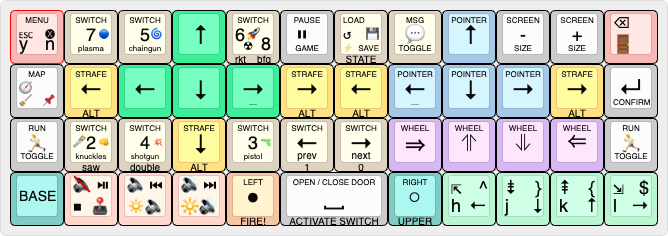
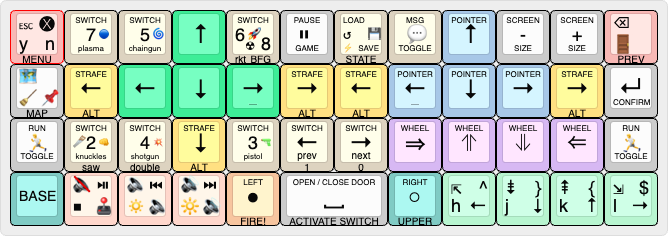
More documentation polishing…

diff --git a/README.md b/README.md
@@ -72,21 +72,21 @@ The MK-47 is usable out of the box (aside from its stock keymap).
   * **Shape:** OEM-like profile (❓ maybe similar to Cherry profile)
   * **Labels:** QWERTY primary labels w/ smaller secondary labels
 * 3× shine-through black keycaps
-  * **`Esc`:** black, 1u (top row/`ROW0`)
-  * **`Enter`:** black, 1u (home row/`ROW1`)
-  * **`Space`:** black, 2u, a.k.a. the “spacebar” (bottom row/`ROW3`)
+  * **`Esc`:** black, 1u (🔼 top row/`ROW0`)
+  * **`Enter`:** black, 1u (🏠 home row/`ROW1`)
+  * **`Space`:** black, 2u, a.k.a. the “spacebar” (🔽 bottom row/`ROW3`)
 * 1× black plastic case w/ **width×depth:** 235×83mm (9.25×3.27in)
   * **Angle:** 3–5° positive tilt
   * **Mount type:** tray/top-mounted PCB (6× small Philips screws, accessible after removing the keycaps)
   * **No stock foam:** standoffs leave room inside for adding sound-dampening material
 * 1× Planck MIT-style PCB
   * **Switch sockets:** MX hotswap (📌 3/5-pin compatible)
-  * **RGB LEDs:** North-facing
-  * **MCU:**  Westberry Tech. [`WB32FQ95xx`](https://www.westberrytech.com/uploads/file/WB32FQ95xx/EN_RM2905025_WB32FQ95xx_V01.pdf), Arm® 32-bit Cortex-M3
+  * **RGB LEDs:** 47× (🧭 north-facing)
+  * **MCU:**  Westberry Tech. [`WB32FQ95xx`](https://www.westberrytech.com/uploads/file/WB32FQ95xx/EN_RM2905025_WB32FQ95xx_V01.pdf) (🔲 Arm® 32-bit Cortex-M3)
     * **Chip ID:** `0x3A50E980`
-  * **Flash size:** 256 KB (🌌 plenty of space to work with)
-  * **SRAM size:** 36 KB
-  * **Port(s):** USB-C (USB 2.0)[^usb-magnetic-adapters]
+    * **Flash size:** 256 KB (🌌 plenty of space to work with)
+    * **SRAM size:** 36 KB
+  * **Port(s):** USB-C (USB 2.0)[^usb-magnetic-adapters], centered on the rear edge
 * Accessories & extras
   * 1× funky black nylon braided 90° USB-C-to-USB-A cable
   * 1× keycap puller included (w/o switch puller)
@@ -281,7 +281,7 @@ Spanish punctuation and combining diacritics sit on the home row for light multi
 
 The bottom-left corner key activates mnemonic Leader sequences. See [LEADER.md](/LEADER.md) for the full list of available actions.
 
-**Center Keys**
+##### Center Keys
 
 | Action | Behavior |
 |--------|----------|
@@ -290,7 +290,7 @@ The bottom-left corner key activates mnemonic Leader sequences. See [LEADER.md](
 | Tap-and-Hold | `ˋ` (combining grave) |
 | Hold | `´` (combining acute) |
 
-**Ring-Finger Keys**
+##### Ring-Finger Keys
 
 | Action | Behavior |
 |--------|----------|
@@ -299,7 +299,7 @@ The bottom-left corner key activates mnemonic Leader sequences. See [LEADER.md](
 | Tap-and-Hold | `˜` (combining tilde) |
 | Hold | `¨` (combining umlaut) |
 
-**Lower Row Accent Keys**
+##### Lower Row Accent Key
 
 | Action | Behavior |
 |--------|----------|
@@ -311,7 +311,7 @@ The bottom-left corner key activates mnemonic Leader sequences. See [LEADER.md](
 > [!WARNING]
 > On macOS, the lower row combining marks rely on the **ABC – Extended** input source. Other layouts do not provide the required dead‑key sequences and will produce incorrect output.
 
-**Application Switching**
+##### Application Switching
 
 Hold the center key to activate the application switcher. macOS uses `CMD`; Linux and Microsoft Windows uses `LALT`.
 
@@ -368,6 +368,8 @@ By default, this keyboard is set to [Apple macOS](#apple-macos); switch it to Li
 
 ![Apple macOS Layer](assets/13_MACOS.png)
 
+##### Center-Thumb Key
+
 The **center-thumb key** (spacebar) opens core macOS functionality:
 
 | Action | Behavior |
@@ -375,6 +377,8 @@ The **center-thumb key** (spacebar) opens core macOS functionality:
 | Tap | Toggle [Spotlight Search](https://en.wikipedia.org/wiki/Spotlight_(Apple)) |
 | Double Tap | Toggle [Emoji & Symbols Menu](https://support.apple.com/guide/mac-help/use-emoji-and-symbols-on-mac-mchlp1560/mac) |
 | Hold | Open [Finder](https://en.wikipedia.org/wiki/Finder_(software)) |
+
+##### Right-Thumb Key
 
 The **right‑thumb key** provides quick file‑deletion actions:
 
@@ -384,6 +388,8 @@ The **right‑thumb key** provides quick file‑deletion actions:
 | Tap-and-Hold | Empty the Trash (Finder); open clear browser data menu (Firefox, Chromium) |
 | Hold | Open the Trash folder in Finder |
 
+##### Top-Right Corner Key
+
 The **top‑right corner key** handles screen-capture shortcuts:
 
 | Action | Behavior |
@@ -391,6 +397,8 @@ The **top‑right corner key** handles screen-capture shortcuts:
 | Tap | Partial screenshot |
 | Tap-and-Hold | Opens all screenshot options |
 | Hold | Full screenshot (all displays) |
+
+##### Center Key
 
 The **center key** provides window and device controls:
 
@@ -409,7 +417,7 @@ These layers provide ergonomic access to common Vim navigation, window managemen
 
 Movements that interact with counts (`<number>movement`) intentionally omit the `Esc` prefix to preserve numeric prefixes and avoid breaking repeatable motions.
 
-**Home Row Navigation Cluster**
+##### Home Row Navigation Cluster
 
 | Action | Behavior |
 |--------|----------|
@@ -420,7 +428,7 @@ Movements that interact with counts (`<number>movement`) intentionally omit the 
 
 WORD and wrapped‑line motions omit the `Esc` prefix to maintain compatibility with `<count>`‑prefixed movements.
 
-**Bottom Row Navigation Cluster**
+##### Bottom Row Navigation Cluster
 
 | Action | Behavior |
 |--------|----------|
@@ -431,14 +439,14 @@ WORD and wrapped‑line motions omit the `Esc` prefix to maintain compatibility 
 
 Window‑resize commands omit the `Esc` prefix to preserve compatibility with `<count>`‑based resizing.
 
-**Center Navigation Cluster**
+##### Center Navigation Cluster
 
 | Action | Behavior |
 |---------|----------|
 | Tap | `zt`, `zz`, `zb` (scroll viewport to top / center / bottom) |
 | Hold | `H`, `M`, `L` (move cursor to top / middle / bottom of screen) |
 
-**Semantic Deletion Key**
+##### Semantic Deletion Key
 
 | Action | Behavior | Notes |
 |--------|----------|-------|
@@ -447,7 +455,7 @@ Window‑resize commands omit the `Esc` prefix to preserve compatibility with `<
 | Tap-and-Hold | `d^` (delete to beginning of line) | Deletes everything back to the first non‑whitespace character |
 | Hold | `d$` (delete to end of line) | Deletes everything to the right of (and under) the cursor |
 
-**Folds**
+##### Folds
 
 | Action | Behavior |
 |---------|----------|
@@ -485,12 +493,16 @@ This layer serves as a secondary/fallback mouse input, useful when other pointin
 
 ![Doom (1993) layer](assets/01_DOOM.png)
 
-An optional compact gaming layer modeled after vanilla [_Doom_ (1993)](https://en.wikipedia.org/wiki/Doom_(1993_video_game)), built around a tight movement cluster, dedicated strafing keys, and thumb‑based actions for firing and opening doors. Quick weapon switching is handled through the [**Upper**](#upper-primary-number-layer) layer and dedicated left-hand keys, and the layout also works as a simple arrows‑plus‑mouse‑keys mode using traditional T‑shaped clusters for general navigation.
+An optional compact gaming layer modeled after vanilla [_Doom_ (1993)](https://en.wikipedia.org/wiki/Doom_(1993_video_game)), built around a tight movement cluster, dedicated strafing keys, and thumb‑based actions for firing and opening doors. Quick weapon switching is handled through the [**Upper**](#upper-primary-number-layer) layer and dedicated number keys (mostly on the left-hand side).
+
+The layout also works as a simple arrows‑plus‑mouse‑keys mode using traditional T‑shaped clusters for general navigation.
+
+Remember, there’s always room for _Doom_.
 
 > [!IMPORTANT]
 > Tested w/ [Chocolate Doom](https://www.chocolate-doom.org/wiki/index.php/Chocolate_Doom) v3.1.1 but keyboard settings modified for `previous weapon` and `next weapon` using `0` and `1`, respectively. It’s also a good idea to enable “Always run” to eliminate the need to continuously hold `Shift`.
 >
-> On macOS, `Pause` (and `F15`) triggers `screen-brightness-up`, so this keymap binds the in-game Pause action to `Delete`.[^Pause_and_Scroll_Lock_on_macOS]
+> On macOS, `Pause` (and `F15`) triggers `screen-brightness-up`, so this keymap binds the in-game Pause action to `Delete`.[^pause_and_scroll_lock_on_macos]
 >
 > `RUN:` `chocolate-doom-setup`
 >
@@ -505,7 +517,7 @@ An optional compact gaming layer modeled after vanilla [_Doom_ (1993)](https://e
 
 [^doom_1993_instruction_manual]: _Doom_ (1993) instruction manual scan sourced from [gaming.stackexchange.com](https://gaming.stackexchange.com/questions/363261/what-are-the-original-controls-of-doom-1993).
 
-[^Pause_and_Scroll_Lock_on_macOS]: On macOS, `Pause` and `F15` → `screen-brightness-up`; `Scroll Lock` and `F14` → `screen-brightness-down`.
+[^pause_and_scroll_lock_on_macos]: On macOS, `Pause` and `F15` → `screen-brightness-up`; `Scroll Lock` and `F14` → `screen-brightness-down`.
 
 ## Case Modes: Temporary Lexical Modes
 
